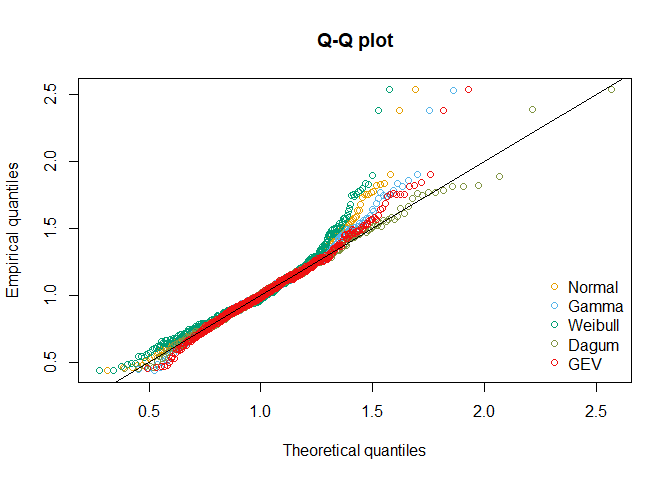
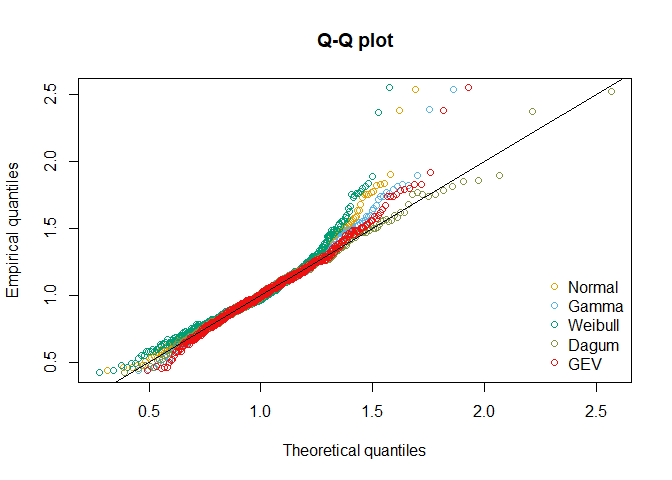
-Updated Markdown Report

Changed region(s): [[0.4375, 0.3438, 0.6562, 0.5625], [0.1562, 0.6562, 0.3125, 0.7812], [0.6875, 0.375, 0.7188, 0.4062]]

diff --git a/Readme.md b/Readme.md
@@ -9,92 +9,141 @@ Analysis of RedBubble.com sales by TysonK
 An Overview
 -----------
 
-RedBubble is one of the longest running and diverse Print-On-Demand (POD) art websites in the world, offering artists everywhere a chance to make money by selling their works on a range of products without having to get involved with any of the logistics. As a homebody with a penchant for Photoshop, I was naturally drawn to it.
+RedBubble is one of the longest running and diverse Print-On-Demand (POD) art websites in the world, offering artists everywhere the opportunity to make money by selling their works on a range of products without having to get involved with any of the logistics.
 
 Redbubble, like many of its contemporaries, has a 'passive' approach for the artist. You upload your designs as images and they do everything else. This means that all sales made are pure profit on the artists side.
 
 About a year and a half ago I opened [my Redbubble store](https://www.redbubble.com/people/tysonk?ref=account-nav-dropdown&asc=u). The specifics of my store aren't entirely important to this report, but there are some important details that will emerge again later. Most designs I uploaded had something to do with National Parks from English speaking countries around the world, and the remainder of the designs are an eclectic mix of outdoors-themed and quirky pruducts meant to appeal to a general audience.
 
-The money started to come in, and as I tweaked some designs and parameters within my store, I realized that this could be a legitimate income stream. Beyond that, some interesting patterns began to emerge. For example, although Redbubble offers designs to be printed on products ranging from coffee mugs to T shirts to throw pillows, by far my most sucessfull item was the sticker.
+My store began to gain traction and some interesting patterns began to emerge. For example, although Redbubble offers designs to be printed on products ranging from coffee mugs to T shirts to throw pillows, by far my most sucessfull item was the sticker.
 
-To date, stickers account for 98.5% of all items sold and 96.2% of all revenue.
+To date, stickers account for 98.5% of all items sold and 96.2% of all profit.
 
-Daily Users and Profits
------------------------
+Daily Users and Profit
+----------------------
 
-Below is the profit per day of my store since May 1st, 2017, measured in Canadian Dollars(red), and the same graph instead measuring unique daily users (turquoise). <img src="Redbubble_Report_files/figure-markdown_github/daily sales and user plot-1.png" style="display: block; margin: auto;" /><img src="Redbubble_Report_files/figure-markdown_github/daily sales and user plot-2.png" style="display: block; margin: auto;" />
+Below is the profit per day of my store since May 1st, 2017, measured in Canadian Dollars(red), and the same graph instead measuring unique daily users (turquoise). <img src="Readme_files/figure-markdown_github/daily sales and user plot-1.png" style="display: block; margin: auto;" /><img src="Readme_files/figure-markdown_github/daily sales and user plot-2.png" style="display: block; margin: auto;" />
 
 Clearly a trend exists with both of these datasets. First, there are some noticable peaks and valleys that seem to line up with both. These represent busy and slow periods for the store, but before we can better quantify *how* busy or slow, this data has to be better understood and manipulated.
 
 Rolling average and distribution fitting
 ----------------------------------------
 
-To begin, a useful tool to analyze the overall trend of an extended period of time for such a random dataset is a **rolling average**. This is an alpha adjusted average where *average.today = actual.today \* A + average.yesterday \* (1 - A)*
+To begin, a useful tool to analyze the overall trend of an extended period of time for such a random dataset is a **rolling average**. This is an alpha adjusted average where *average.today = actual.yesterday \* A + average.yesterday \* (1 - A)*. Calculating the average for day **N** uses only data from day **N - 1** and earlier. This is done to prevent the average from being over-informed when constructing confidence intervals.
 
-A has to be appropriately small so that the rolling average isn't completly changed for every outlier day. All proceeding A's are set at 0.07.
+A has to be appropriately small so that the rolling average isn't completly changed for every outlier day, yet large enough to respond quickly to the profit trend. All proceeding A's are set at 0.07.
 
 Now that we have an average to compare every day to, another valuable statistic to learn is the day-to-day variation in both datasets. For brevity, this analysis will only be done on the daily users, but the process is identical.
 
-A great way to do this is to fit our varied data to a series of plausible distributions and observe which distribution best represents the varience. Unfortunately these data sets exhibit trends which prevent us from simply measuring the varience between *all* data points. This is a perfect use for our computed rolling average, and instead of simply measuring the varience between daily users, we can account for the trend by dividing each daily user data point by its corresponding user rolling average. This can be thought of as **Normalizing** our dataset, preserving the varience and yielding the following:
+A great way to do this is to fit our varied data to a series of plausible distributions and observe which distribution best represents the varience. Unfortunately these data sets exhibit trends which prevent us from simply measuring the varience between *all* data points. This is a perfect use for our computed rolling average, and instead of simply measuring the varience between daily users, we can account for the trend by dividing each daily user data point by its corresponding user rolling average. This can be thought of as **Adjusting** our dataset to account for time-dependant trends, preserving the varience and yielding the following:
 
-<img src="Redbubble_Report_files/figure-markdown_github/normalized daily users plot-1.png" style="display: block; margin: auto;" />
+<img src="Readme_files/figure-markdown_github/adjusted daily users plot-1.png" style="display: block; margin: auto;" />
 
-These points represent how each day relates to the rolling average. Five distributions were used to fit this data; Normal, Gamma, Weibull, Dagum, and GEV (Generalized Extreme Value). These five were chosen specifically because they are some of the most common distributions for inter-arrival times, and random variables like daily profit and unique users can be thought of the same way, since there is a hard minimum (0), which is very unlikely, and practically infinite maximum.
+These points represent how each day relates to the rolling average. Five distributions were used to fit this data; Normal, Gamma, Weibull, Dagum, and GEV (Generalized Extreme Value). These five were chosen specifically because they are some of the most common distributions for inter-arrival times (With exception to the Normal distribution, which is included for comparison purposes), and random variables like daily profit and unique users can be thought of the same way, since there is a hard minimum (0), which is very unlikely, and practically infinite maximum.
 
-<img src="Redbubble_Report_files/figure-markdown_github/User distribution fits-1.png" style="display: block; margin: auto;" /><img src="Redbubble_Report_files/figure-markdown_github/User distribution fits-2.png" style="display: block; margin: auto;" />
+<img src="Readme_files/figure-markdown_github/User distribution fits-1.png" style="display: block; margin: auto;" /><img src="Readme_files/figure-markdown_github/User distribution fits-2.png" style="display: block; margin: auto;" />
 
-As you can see from these plots, these functionns all look very similar. Although the Q-Q plot points to the Dagum function being the best fit, a better way to cut through the ambiguity of selecting a distribution is summarizing with the Kolmogorov-Smirnov fitness test. Below is a table with results for all five distributions.
+As you can see from these plots, these functionns all look very similar, although the Q-Q plot points to the Dagum function being the best fit. A better way to cut through the subjectivity of selecting a distribution is summarizing with the Kolmogorov-Smirnov fitness test. Below is a table with results for all five distributions.
 
 | Distribution |  Test.Statistic|  P.value|
 |:-------------|---------------:|--------:|
-| Normal       |          0.0467|   0.1718|
-| Gamma        |          0.0309|   0.6537|
-| Weibull      |          0.0583|   0.0437|
-| Dagum        |          0.0165|   0.9980|
-| GEV          |          0.0233|   0.9202|
+| Normal       |          0.0511|   0.0980|
+| Gamma        |          0.0347|   0.4905|
+| Weibull      |          0.0633|   0.0198|
+| Dagum        |          0.0151|   0.9994|
+| GEV          |          0.0254|   0.8518|
 
-Clearly Dagum is the way to go! These results are nearly identical for sales as well, and now that we have a bona-fide distribution, we can construct a confidence interval for our data.
+While the KS test only eliminated the Weibull distribution on a p &lt; 0.05 threshold, we can see that the KS test also supports our theory that the data fits a Dagum distribution very well.
 
 Naive Trend Analysis
 --------------------
 
-Below are the original sales and user charts, now with the rolling average (dark line) and 90% confidence intervals (light lines). This is the first opportunity we have to see the story being told by the data. First, if you pay close attention to the dates of some of the peaks and valleys, there are four clear trends.
+Below are the original sales and user charts, now with the rolling average (dark line) and 90% confidence intervals (light lines) constructed from the Dagum distribution. This confidence interval is represents where 90% of all datapoints will exist between. This is the first opportunity we have to see the story being told by the data. First, if you pay close attention to the dates of some of the peaks and valleys, there are four clear trends.
 
 1.  Both tend to be higher during the late summer months.
 2.  Both tend to be higher during mid-November to mid-December.
 3.  Both, in general, increase over time.
 4.  There is less variance in daily users than daily sales.
 
-<img src="Redbubble_Report_files/figure-markdown_github/daily sales and user plot with rolling average and CI-1.png" style="display: block; margin: auto;" /><img src="Redbubble_Report_files/figure-markdown_github/daily sales and user plot with rolling average and CI-2.png" style="display: block; margin: auto;" />
+<img src="Readme_files/figure-markdown_github/daily sales and user plot with rolling average and CI-1.png" style="display: block; margin: auto;" /><img src="Readme_files/figure-markdown_github/daily sales and user plot with rolling average and CI-2.png" style="display: block; margin: auto;" />
 
 More Factors to Consider
 ------------------------
 
 A very important thing to understand about this redbubble store is that unique users have a direct relationship with daily sales. There are a few steps invloved to get from one to the other, and the easiest way to illustrate this path is to consider an average customer.
 
-Let's say Jim has decided he wants to buy a sticker for [Banff National Park](https://www.redbubble.com/people/tysonk?ref=account-nav-dropdown&asc=u) after a recent holiday. Jim finds the RedBubble storefront for my sticker, and the first stop on the path occurs. **Jim decides if he wants to buy this product**. This interaction, which I call the *should I?* factor, is a random variable with possible outcomes of *yes* or *no*.
+Let's say Jim has decided he wants to buy a sticker for [Banff National Park](https://www.redbubble.com/people/tysonk/works/33710123-banff-national-park-basic?asc=u&p=sticker) after a recent holiday. Jim finds the RedBubble storefront for my sticker, and the first stop on the path occurs. **Jim decides if he wants to buy this product**. This interaction, which I call the *should I?* factor, is a random variable with possible outcomes of *yes* or *no*.
 
 Assuming Jim loves the design and chooses to buy it, he adds it to his cart. Jim now has another important decision to make; **Jim decides if he wants to buy another product**. Almost always the answer to this is no, but again this interaction introduces another factor I call *how many?*. This is also a random variable with possible outcomes *1* to *infinite*, heavily weighted towards 1.
 
-Now that Jim has, say, a sticker and a T-shirt in his cart, he checks out to complete his order. There is one more important random variable to consider, and that is summarized by **How much profit does each product produce?**. This is a very important factor, and one of the variables that the artist has the most control over, called *what cost?*. It completly depends on the product, sale, and set margin for the artist but can range from *0* to *infinite*, weighted towards an average values dictated by the most commonly sold item.
+Now that Jim has, say, a sticker and a T-shirt in his cart, he checks out to complete his order. There is one more important random variable to consider, and that is summarized by **How much profit does each product produce?**. This is a very important factor, and one of the variables that the artist has the most control over, called *what cost?*. It completly depends on the product, sale, and set margin for the artist but can range from *0* to *infinite*, weighted towards an average value dictated by the most commonly sold item.
 
 The sale is now complete. Jim, the **user**, has completed an **order** with the sticker and T-shirt representing multiple **units**, for some **profit**. This directional flow of actions results in much more varience on the profit end compared to the user end, and explains \#4 on our list of noticed trends.
 
-<img src="Redbubble_Report_files/figure-markdown_github/daily units plot-1.png" style="display: block; margin: auto;" />
+Controlling these Factors
+-------------------------
 
-<img src="Redbubble_Report_files/figure-markdown_github/daily orders plot-1.png" style="display: block; margin: auto;" />
+### Exposure
+
+The success of this store, or really any merchandise business, resides in how and what we change to influence these factors. To start, we can look at the implied fisrt factor: *exposure*. This is where I would have an absolute hay-day if I were privy to the data RedBubble collects internally. Before we can influence a customer interaction, they have to see the webpage.
+
+Unfortunately for the artists, there is very little that can be done to increase exposure. RedBubble is a wild-west implementation of the POD model: everyone uploads whatever they want and the cream rises to the top. One could argue that this is the best possible implementation, where the best designs get rewarded the most, but that doesn't necessarily happen.
+
+Redbubble designs get more ad-targets and raise higher in internal search rankings based on their sales record. What does this mean? A mediocre design that has been on the store for a while with modest sales numbers can be on the first page of search results whereas a great design that was recently uploaded with hardly any sales will be buried in the later pages of a search result.
+
+If I was a betting man (a great stance for an aspiring analyst), I would say that search rank has a hell of a lot more to do with the success of a single design than the quality of that design. What ends up happenning with this meritocratic approach is that page 1 designs stay on page 1 entirely due to the fact that they sell better than page 2+ designs. Many times, I have uploaded a design only to sell a grand total of 0 products within the fist several months of its existance. Then, if a I get lucky and a **single** person buys this design, it shoots up in the search rankings past all the other unbought designs. Suddenly, that design turns into a hit.
+
+So to gain some autonomy over this seemingly unfair beginning of a design life-cycle, I batch uploaded a series of designs, **bought them all** with my second account, and spent the next few months making sales of all of these designs having been kick started higher in the search rankings.
+
+For the average design in my store, the sales have slowly improved over time as each individual ranking creeps closer and closer to its rightful place in the search results. Often that happens to be on page 1, but after some time the search ranking stabilizes. I believe this is one of the main influences of \#3 of the noticed trends: Both users and Sales, in general, increase over time.
+
+### Should I?
+
+Assuming the exposure of our design leads a user to click on it, the next factor to consider is *should I?*. As mentioned before, this is a random variable with possible outcomes *yes* or *no*. These can instead be thought of as *1* or *0*, with an expected value somewhere in between. This value represents the **probability of a user making a purchase**. This value can actually be plotted over time, as it is fairly easily represented as the *average daily orders / average daily users*. This graph ranges from 0 - 1, representing the probability of each user buying a product.
+
+<img src="Readme_files/figure-markdown_github/daily Order per user plot-1.png" style="display: block; margin: auto;" />
+
+This graph seems to be failry stable, and doesn't change in response to developments in my store and added designs. Instead, there are two possible theories I have for the trend.
+
+1.  The value is higher based on the quality of the design. This is approximately constant for my store becuase my set of designs are all very similar and most have existed since the start date of May 1st, 2017. I would imaging talented designers would have this value higher than the ~20% purchase rate that I am showing.
+
+2.  The values fluctuate based on buyer desparation. I think it is no coincidence that the highest peak on this graph occurs in the month leading up to Christmas. Buyers are looking for gifts for loved ones, and are more likely to make a purchase because they either just want to buy anything for them, aren't as scrutinous becuase they aren't buying for themselves, or feel pressured from the in-site sales advertisements all over the webpage at that time of year. The dip in desparation after the holidays may also point to a lack of available spending money for customers.
+
+### How Many?
+
+As mentioned before, the overwhelming majority of orders contain only a single unit. Below is a histogram of Units per Order.
+
+<img src="Readme_files/figure-markdown_github/units per order hist-1.png" style="display: block; margin: auto;" />
+
+This isn't necessarily because users usually only buy a single item; in fact it is usually the opposite. RedBubble has cleverly made their products available at scaleable deals, discounting your whole order of stickers based on how many you decide to purchase.
+
+Barring differences in the exchange rate between USD and CAD, an average full price sticker sold in the United States nets about $4.05 in profit. This is quantified in a histogram of US sticker sales by profit per sticker.
+
+<img src="Readme_files/figure-markdown_github/unit profit hist-1.png" style="display: block; margin: auto;" />
+
+The small bump on the right side of this graph at just over $4.00 represents these full price purchases, but you may have noticed that it is by no means the largest bump on this graph. The two other bumps are both very closely packed together, and clearly show that something else is going on. Below is the same graph with lines representing various levels of discount from full price.
+
+<img src="Readme_files/figure-markdown_github/unit profit hist with discount-1.png" style="display: block; margin: auto;" />
+
+This illustrates the discount strategy RedBubble is using. When you have one sticker in your cart, a popup will notify you before checking out that you can save 25% if you buy 5 or more stickers and 50% if you buy 10 or more stickers. Since there is no other way to buy a sticker from my store at less than the full profit margin of ~$4.05 (other than short seasonal discounts of 15%, 20% and 30% shown with the tiny bumps on the graph), these two bumps represent people taking advantage of these discounts. 76.8% of all stickers are bought with the 10+ stickers for 50% off discount, 19.5% are bought with the 5+ stickers for 25% off discount, and only 3.7% of stickers are purchased at full price.
+
+Why then are the majority of my orders just single stickers? The benefit of having such a huge open marketplace is that users have a ton of designs to choose from. This means that orders of 10+ stickers will very rarely have 2 designs by the same designer. The only reason people buy more than one of my designs in a single order is because most of my designs are in related series (for example, someone buys a Jasper and Banff sticker because they have been to both).
+
+Unfortunately, just like exposure, there is very little that can be done to influence this factor. The only possible thing I have control over for this *how many?* factor is to make various series of related designs on my store, and making related designs navigable to each other via RedBubble's Collection feature.
+
+<img src="Readme_files/figure-markdown_github/daily units plot-1.png" style="display: block; margin: auto;" />
+
+<img src="Readme_files/figure-markdown_github/daily orders plot-1.png" style="display: block; margin: auto;" />
 
 Combining some of these graphs can give insight as to how changing these interim random variables (*should I?*, *how many?*, *what cost?*) either intentionally or from outside forces changes the profitability of the store.
 
-<img src="Redbubble_Report_files/figure-markdown_github/daily $ per Order plot-1.png" style="display: block; margin: auto;" />
+<img src="Readme_files/figure-markdown_github/daily $ per Order plot-1.png" style="display: block; margin: auto;" />
 
-<img src="Redbubble_Report_files/figure-markdown_github/daily Order per user plot-1.png" style="display: block; margin: auto;" />
-
-<img src="Redbubble_Report_files/figure-markdown_github/daily Units per order plot-1.png" style="display: block; margin: auto;" />
+<img src="Readme_files/figure-markdown_github/daily Units per order plot-1.png" style="display: block; margin: auto;" />
 
 |             |  Estimate|  Std. Error|  t value|  Pr(&gt;|t|)|
 |-------------|---------:|-----------:|--------:|------------:|
-| (Intercept) |     -0.01|         0.1|    -0.11|         0.91|
-| x           |      2.09|         0.1|    20.92|         0.00|
+| (Intercept) |     -0.10|         0.1|    -0.98|         0.33|
+| x           |      2.01|         0.1|    21.10|         0.00|
 
 hi
